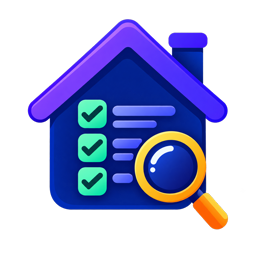
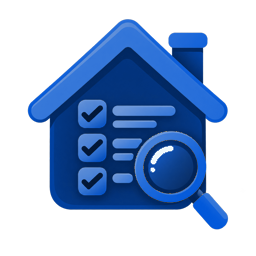
Add light and dark branding asset set with valid @2x variants and Home Assistant blue palette

Changed region(s): [[0.0938, 0.0625, 0.9062, 0.9062]]

diff --git a/context/evolution/changelog.md b/context/evolution/changelog.md
@@ -6,6 +6,8 @@
 
 - Area inventory now resolves Home Assistant `floor_id` values through the floor
   registry, so assigned areas display their floor name instead of “No floor”.
+- Completed the light and dark branding asset set, including valid `@2x`
+  variants and the Home Assistant-oriented blue palette.
 - Refactored zone auditing and Home Assistant snapshot assembly to comply with
   Ruff complexity limits without changing their output.
 - Reviewed or ignored Zone and Label items now show only the Reopen action;

diff --git a/CHANGELOG.md b/CHANGELOG.md
@@ -8,6 +8,8 @@ All notable changes to HA Organizer are documented in this file.
 
 - Areas now resolve Home Assistant `floor_id` values through the floor registry,
   so areas assigned to a floor no longer appear as “No floor”.
+- Completed the light and dark branding asset set, including valid `@2x`
+  variants and the Home Assistant-oriented blue palette.
 
 ## [2026.8.0] - 2026-08-25
 
